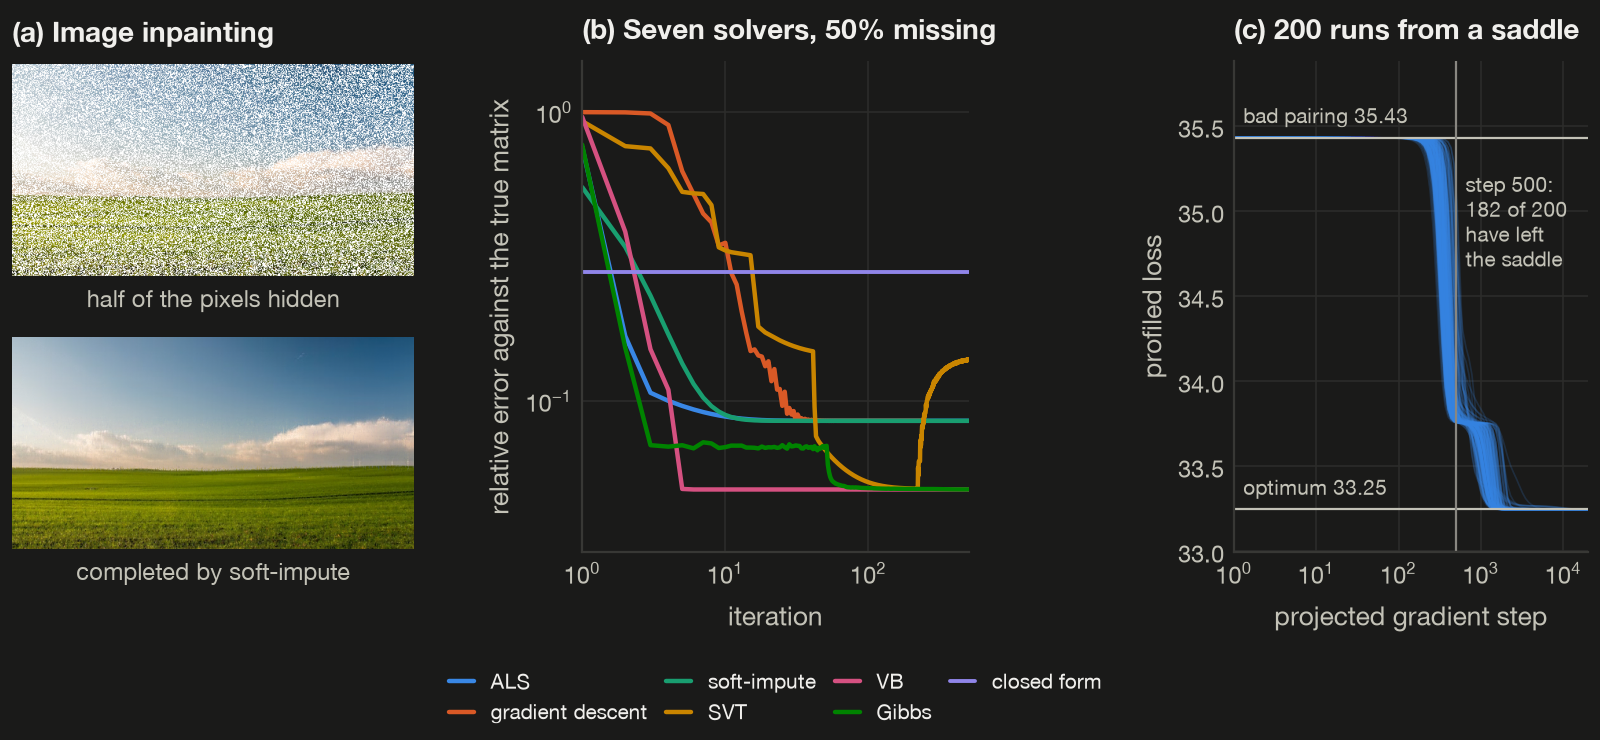
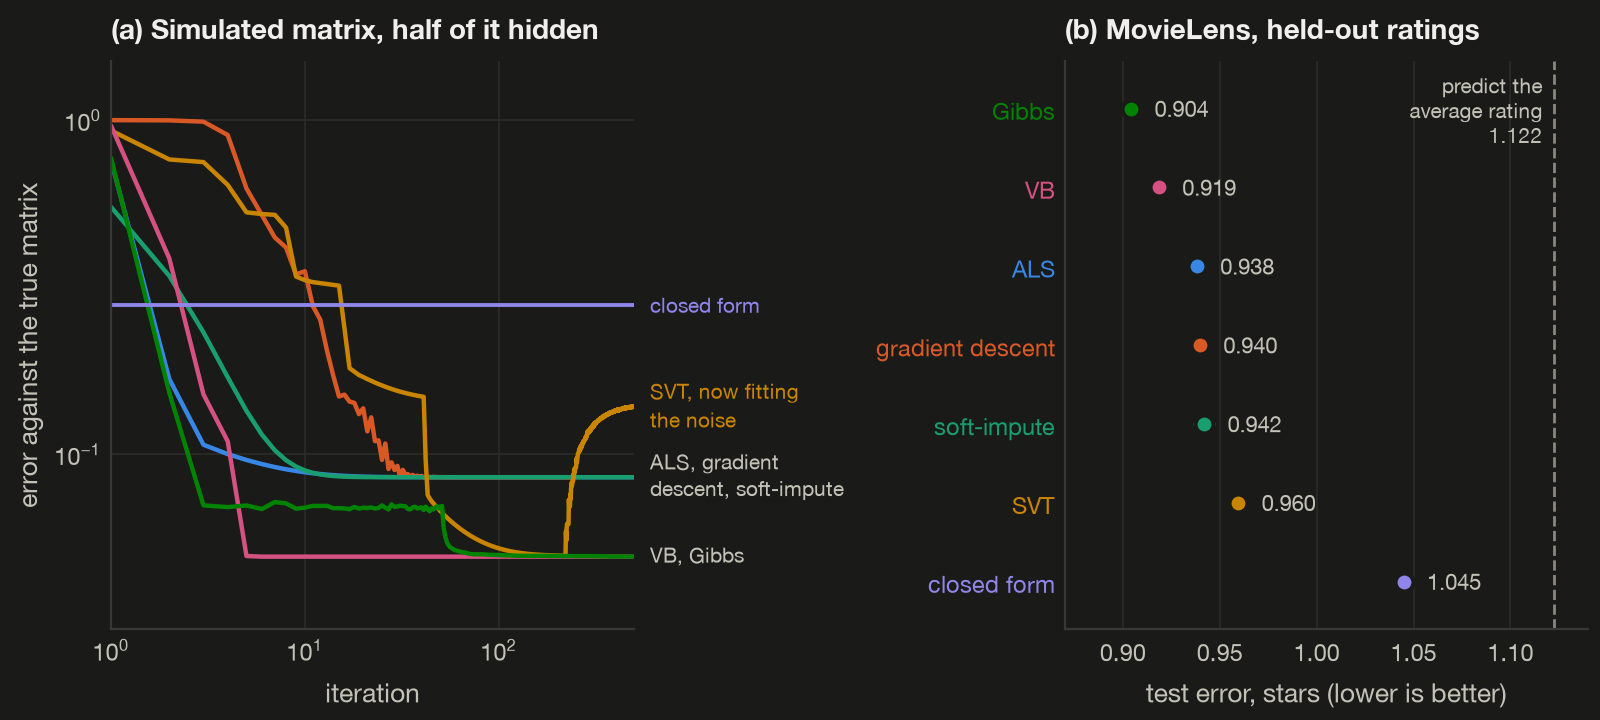
Make the hero figure the solver comparison on simulated and real data

diff --git a/plotting/hero.py b/plotting/hero.py
@@ -1,74 +1,81 @@
-"""Hero figure: (a) inpainting, (b) convergence of the seven solvers, (c) saddle escape."""
+"""Hero figure: (a) the seven solvers on a simulated matrix, (b) their test error on MovieLens."""
 
 import matplotlib.pyplot as plt
-import numpy as np
 from matplotlib.gridspec import GridSpec
-from PIL import Image
 
-from common import INK, RESULTS, SOLVERS, read, save_both, solver_color
+from common import INK, SOLVERS, read, save_both, solver_color
+
+
+def movielens_summary():
+    """
+    Mean and sd over seeds of the test RMSE at the rank each solver chose on
+    validation (SVT has no rank to choose: its rank is set by early stopping).
+    """
+    table = read("movielens_rmse.csv")
+    stats = (table.groupby(["solver", "rank"])
+             .agg(val=("val_rmse", "mean"), mean=("test_rmse", "mean"), sd=("test_rmse", "std"))
+             .reset_index())
+    best = stats.loc[stats.groupby("solver").val.idxmin()].set_index("solver")
+    svt = table[table.solver == "SVT"].test_rmse
+    best.loc["SVT", ["mean", "sd"]] = svt.mean(), svt.std()
+    baseline = best.loc["training mean", "mean"]
+    best = best.drop(index="training mean").sort_values("mean", ascending=False)
+    return best, baseline
 
 
 def draw(mode):
     ink = INK[mode]
-    fig = plt.figure(figsize=(8, 3.7))
-    gs = GridSpec(2, 3, figure=fig, width_ratios=[1.25, 1.2, 1.1])
+    fig = plt.figure(figsize=(8, 3.6))
+    gs = GridSpec(1, 2, figure=fig, width_ratios=[1.0, 1.0])
 
-    # (a) inpainting: masked input above, soft-impute output below
-    for row, (fname, caption) in enumerate([
-            ("inpainting_masked.png", "half of the pixels hidden"),
-            ("inpainting_reconstructed.png", "completed by soft-impute")]):
-        ax = fig.add_subplot(gs[row, 0])
-        ax.imshow(Image.open(RESULTS / fname))
-        ax.set_xticks([])
-        ax.set_yticks([])
-        ax.grid(False)
-        for spine in ax.spines.values():
-            spine.set_visible(False)
-        ax.set_xlabel(caption, fontsize=8.5, color=ink["secondary"], labelpad=3)
-        if row == 0:
-            ax.set_title("(a) Image inpainting")
-
-    # (b) convergence curves
-    ax = fig.add_subplot(gs[:, 1])
+    # (a) convergence curves on a simulated matrix, labelled at their right ends
+    ax = fig.add_subplot(gs[0, 0])
     curves = read("convergence_curves.csv")
     for name in SOLVERS:
         d = curves[curves.solver == name]
         color = solver_color(name, mode)
         if name == "closed form":
-            ax.axhline(d.relative_error.iloc[0], color=color, lw=1.4, label=name)
+            ax.axhline(d.relative_error.iloc[0], color=color, lw=1.4)
         else:
-            ax.plot(d.iteration, d.relative_error, color=color, lw=1.6, label=name)
+            ax.plot(d.iteration, d.relative_error, color=color, lw=1.6)
+    final = curves.groupby("solver").relative_error.last()
+    for names, text in [(["closed form"], "closed form"),
+                        (["SVT"], "SVT, now fitting\nthe noise"),
+                        (["ALS", "gradient descent", "soft-impute"], "ALS, gradient\ndescent, soft-impute"),
+                        (["VB", "Gibbs"], "VB, Gibbs")]:
+        ax.annotate(text, xy=(1.03, final[names].mean()), xycoords=("axes fraction", "data"),
+                    va="center", ha="left", fontsize=7.5, linespacing=1.1, annotation_clip=False,
+                    color=solver_color(names[0], mode) if len(names) == 1 else ink["secondary"])
     ax.set_xscale("log")
     ax.set_yscale("log")
     ax.set_xlim(1, curves.iteration.max())
     ax.set_ylim(0.03, 1.5)
     ax.set_xlabel("iteration")
-    ax.set_ylabel("relative error against the true matrix")
-    ax.set_title("(b) Seven solvers, 50% missing")
-    ax.legend(loc="upper center", bbox_to_anchor=(0.5, -0.2), ncol=4, handlelength=1.2,
-              columnspacing=0.9, labelspacing=0.3, fontsize=7.5)
+    ax.set_ylabel("error against the true matrix")
+    ax.set_title("(a) Simulated matrix, half of it hidden", loc="left")
 
-    # (c) saddle escape
-    ax = fig.add_subplot(gs[:, 2])
-    traj = read("saddle_escape_trajectories.csv")
-    runs = read("saddle_escape_runs.csv")
-    color = solver_color("ALS", mode)
-    for _, d in traj.groupby("run"):
-        ax.plot(d.step.clip(lower=1), d.loss, color=color, lw=0.6, alpha=0.18)
-    bad, best = runs.loss_bad_pairing.iloc[0], runs.loss_optimum.iloc[0]
-    for y, label in [(bad, f"bad pairing {bad:.2f}"), (best, f"optimum {best:.2f}")]:
-        ax.axhline(y, color=ink["secondary"], lw=0.8)
-        ax.text(1.3, y + 0.06, label, fontsize=7.5, color=ink["secondary"], va="bottom")
-    ax.axvline(500, color=ink["muted"], lw=0.8)
-    escaped = int(runs.escaped_by_500.sum())
-    ax.text(650, bad - 0.2, f"step 500:\n{escaped} of {len(runs)}\nhave left\nthe saddle",
-            fontsize=7.5, color=ink["secondary"], va="top")
-    ax.set_xscale("log")
-    ax.set_xlim(1, traj.step.max())
-    ax.set_ylim(best - 0.25, bad + 0.45)
-    ax.set_xlabel("projected gradient step")
-    ax.set_ylabel("profiled loss")
-    ax.set_title(f"(c) {len(runs)} runs from a saddle")
+    # (b) MovieLens test error per solver, sorted, with the predict-the-mean baseline
+    ax = fig.add_subplot(gs[0, 1])
+    best, baseline = movielens_summary()
+    for y, (name, row) in enumerate(best.iterrows()):
+        color = solver_color(name, mode)
+        ax.errorbar(row["mean"], y, xerr=row["sd"], fmt="o", color=color, ms=6.5,
+                    mec=ink["surface"], mew=1.5, elinewidth=1.2, capsize=0)
+        ax.text(row["mean"] + 0.012, y, f"{row['mean']:.3f}", va="center", fontsize=8,
+                color=ink["secondary"])
+    ax.axvline(baseline, color=ink["muted"], lw=1.0, ls="--")
+    ax.text(baseline - 0.006, len(best) - 0.55, f"predict the\naverage rating\n{baseline:.3f}",
+            ha="right", va="top", fontsize=7.5, color=ink["secondary"])
+    ax.set_yticks(range(len(best)))
+    ax.set_yticklabels(best.index)
+    for label, name in zip(ax.get_yticklabels(), best.index):
+        label.set_color(solver_color(name, mode))
+    ax.set_ylim(-0.6, len(best) - 0.4)
+    ax.set_xlim(0.87, 1.14)
+    ax.set_xticks([0.9, 0.95, 1.0, 1.05, 1.1])
+    ax.grid(axis="y", visible=False)
+    ax.set_xlabel("test error, stars (lower is better)")
+    ax.set_title("(b) MovieLens, held-out ratings", loc="left")
     return fig
 
 
